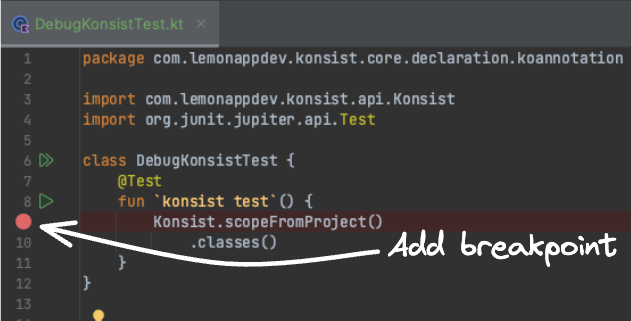
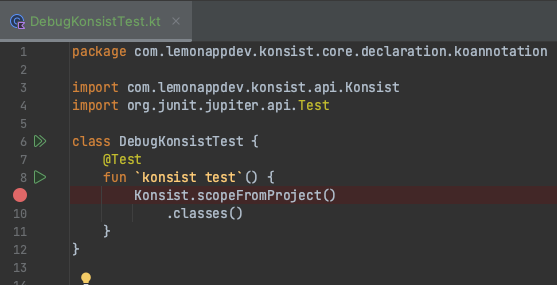
GITBOOK-238: change request with no subject merged in GitBook

diff --git a/features/debug-konsist-test.md b/features/debug-konsist-test.md
@@ -12,19 +12,23 @@ Two primary tools can help you comprehend the inner workings of the Konsit API -
 
 The [IntelliJ IDEA](https://www.jetbrains.com/idea/) / [Android Studio](https://developer.android.com/studio) provides a handy feature called [Evaluate Expressions](https://www.jetbrains.com/help/rider/Evaluating\_Expressions.html#eval-expression-dialog) that is ideal for debugging Konsist tests.
 
-Create a simple test class and click on the line number to add the breakpoint:
+Create a simple test class and click on the line number to add the [breakpoint](https://www.jetbrains.com/help/idea/using-breakpoints.html):
 
-<figure><img src="../.gitbook/assets/image (1).png" alt=""><figcaption></figcaption></figure>
+<figure><img src="../.gitbook/assets/image (1) (1).png" alt=""><figcaption></figcaption></figure>
 
-Debug Test:
+Debug the test:
 
 <figure><img src="../.gitbook/assets/image (3).png" alt=""><figcaption></figcaption></figure>
 
-When the program stops at the breakpoint run `Evaluate Expression` action:
+When the program stops at the breakpoint (blue line background) run `Evaluate Expression...` action...
 
 <figure><img src="../.gitbook/assets/image (4).png" alt=""><figcaption></figcaption></figure>
 
-In the `Evaluate` window enter the query and click `Evaluate` the button. For example, you can list all of the classes present in the scope to get the class names:
+...or press `Evaluate Expression...` button:
+
+<figure><img src="../.gitbook/assets/image.png" alt=""><figcaption></figcaption></figure>
+
+In the `Evaluate` window enter the code and click the `Evaluate` the button. For example, you can list all of the classes present in the scope to get the class names:
 
 <figure><img src="../.gitbook/assets/image (5).png" alt=""><figcaption></figcaption></figure>
 
@@ -39,9 +43,9 @@ koScope
 
 ## Print To Console
 
-Konsist provides an API to print the desired data as console logs.
+Konsist provides a flexible API that allows to output of the specified data as console logs. Scopes, lists of declarations, and single declarations can all be printed.
 
-Print a list of files from `KoScope` :
+Print a list of files from `KoScope`:
 
 ```kotlin
 koScope // KoScope
